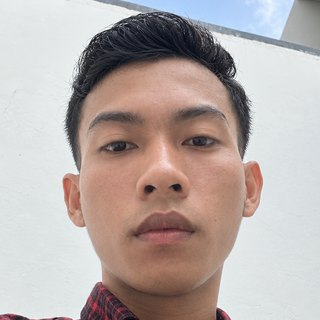
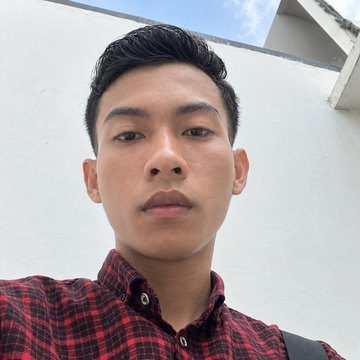
Bio link WhatsApp

diff --git a/index.html b/index.html
@@ -56,8 +56,8 @@ h1{margin:0;font-size:clamp(18px,2.8dvh,22px);font-weight:500;line-height:1.3}
 .err{display:none;position:absolute;left:0;right:0;bottom:100%;margin:0;padding:3px 16px;color:#d9363e;font-size:13px;background:var(--bg)}
 .toast{position:fixed;left:50%;bottom:calc(84px + env(safe-area-inset-bottom,0px));transform:translateX(-50%);background:#202c33;color:#e9edef;padding:8px 16px;border-radius:18px;font-size:13px;opacity:0;pointer-events:none;transition:opacity .2s}
 .toast.on{opacity:1}
-@media (max-height:740px){.av{width:clamp(52px,10.5dvh,112px);height:clamp(52px,10.5dvh,112px)}.about p.t{font-size:14px;line-height:1.4}.card{padding-top:8px;padding-bottom:8px}.chips{gap:6px}.chip{padding:5px 14px}.num{margin-bottom:8px}}
-@media (max-height:600px){.about{display:none}}
+@media (max-height:740px){.av{width:clamp(60px,12.5dvh,112px);height:clamp(60px,12.5dvh,112px)}.about p.t{font-size:14px;line-height:1.4}.card{padding-top:8px;padding-bottom:8px}.chips{gap:6px}.chip{padding:5px 14px}.num{margin-bottom:8px}}
+@media (max-height:640px){.about{display:none}}
 .chat .wall{opacity:1}
 .chat .v1{opacity:0;transform:translateY(-10px);visibility:hidden;pointer-events:none;transition:opacity .28s ease,transform .28s ease,visibility 0s .28s}
 .chat .v2{opacity:1;transform:none;visibility:visible;pointer-events:auto;transition:opacity .28s ease,transform .28s ease,visibility 0s}
